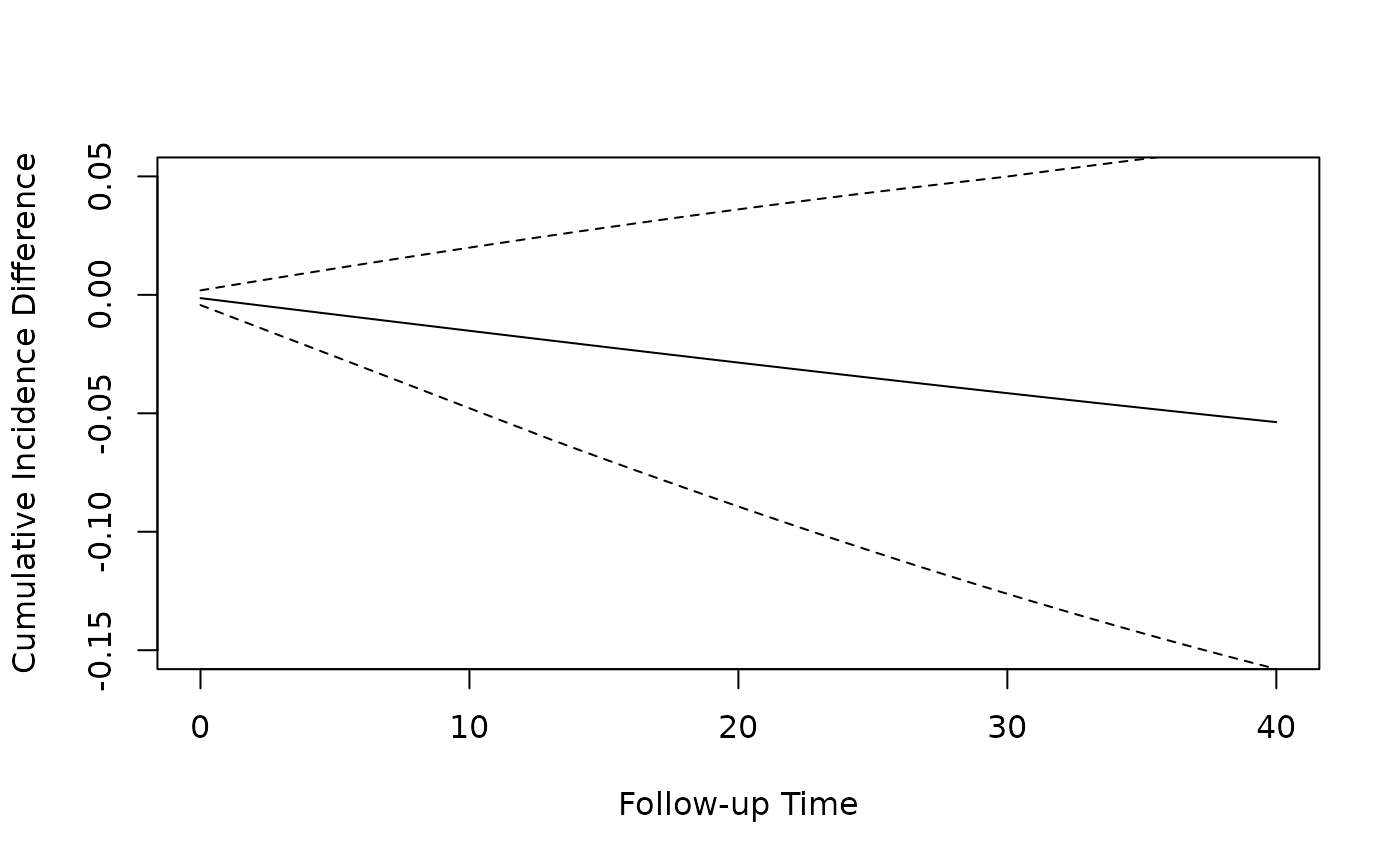
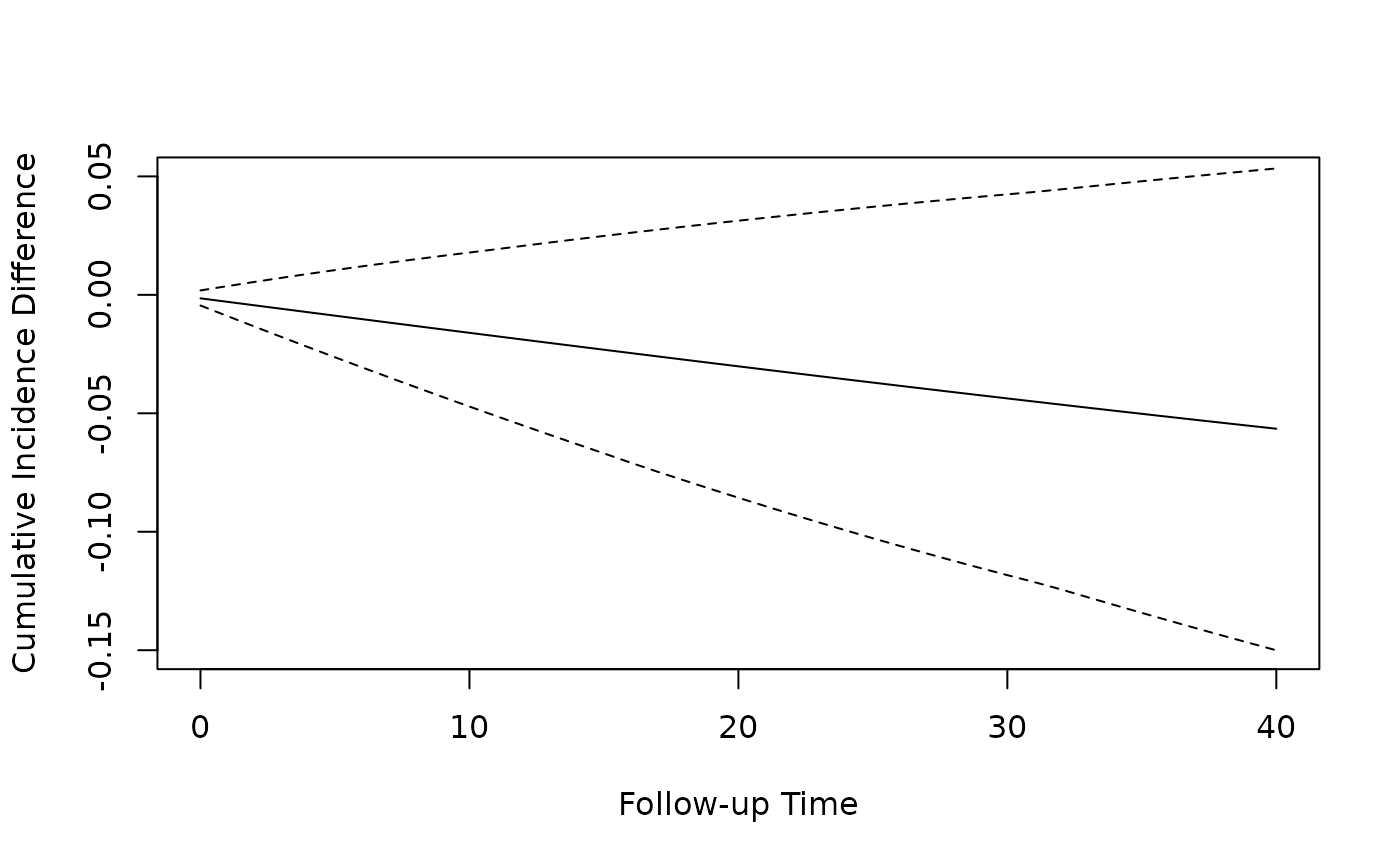
Deploying to gh-pages from @ Causal-LDA/TrialEmulation@989f064dfcb68f37ebdf280b2c37f8ee845aae0d 🚀

diff --git a/articles/Getting-Started.html b/articles/Getting-Started.html
@@ -33,7 +33,7 @@
       </button>
       <span class="navbar-brand">
         <a class="navbar-link" href="../index.html">TrialEmulation</a>
-        <span class="version label label-default" data-toggle="tooltip" data-placement="bottom" title="">0.0.3.7</span>
+        <span class="version label label-default" data-toggle="tooltip" data-placement="bottom" title="">0.0.3.8</span>
       </span>
     </div>
 
@@ -398,13 +398,13 @@ data.</p>
 <span><span class="co">#&gt; Expanded Trial Emulation data</span></span>
 <span><span class="co">#&gt; </span></span>
 <span><span class="co">#&gt; Expanded data saved in 396 csv files:</span></span>
-<span><span class="co">#&gt;   1:   /tmp/RtmprqDfSJ/trial_emu/trial_1.csv</span></span>
-<span><span class="co">#&gt;   2:   /tmp/RtmprqDfSJ/trial_emu/trial_2.csv</span></span>
-<span><span class="co">#&gt;   3:   /tmp/RtmprqDfSJ/trial_emu/trial_3.csv</span></span>
+<span><span class="co">#&gt;   1:   /tmp/Rtmp1nTbMU/trial_emu/trial_1.csv</span></span>
+<span><span class="co">#&gt;   2:   /tmp/Rtmp1nTbMU/trial_emu/trial_2.csv</span></span>
+<span><span class="co">#&gt;   3:   /tmp/Rtmp1nTbMU/trial_emu/trial_3.csv</span></span>
 <span><span class="co">#&gt;  ---                                        </span></span>
-<span><span class="co">#&gt; 394: /tmp/RtmprqDfSJ/trial_emu/trial_394.csv</span></span>
-<span><span class="co">#&gt; 395: /tmp/RtmprqDfSJ/trial_emu/trial_395.csv</span></span>
-<span><span class="co">#&gt; 396: /tmp/RtmprqDfSJ/trial_emu/trial_396.csv</span></span>
+<span><span class="co">#&gt; 394: /tmp/Rtmp1nTbMU/trial_emu/trial_394.csv</span></span>
+<span><span class="co">#&gt; 395: /tmp/Rtmp1nTbMU/trial_emu/trial_395.csv</span></span>
+<span><span class="co">#&gt; 396: /tmp/Rtmp1nTbMU/trial_emu/trial_396.csv</span></span>
 <span><span class="co">#&gt; </span></span>
 <span><span class="co">#&gt; </span></span>
 <span><span class="co">#&gt; Number of observations in expanded data: 963883 </span></span>
@@ -464,7 +464,7 @@ individually</p>
 <span><span class="co">#&gt;  null.deviance df.null logLik  AIC  BIC deviance df.residual  nobs</span></span>
 <span><span class="co">#&gt;           4330   21263  -2165 4335 4359     4329       21261 21264</span></span>
 <span><span class="co">#&gt; </span></span>
-<span><span class="co">#&gt; Object saved at "/tmp/RtmprqDfSJ/trial_emu/weight_model_switch_n0.rds"</span></span></code></pre></div>
+<span><span class="co">#&gt; Object saved at "/tmp/Rtmp1nTbMU/trial_emu/weight_model_switch_n0.rds"</span></span></code></pre></div>
 <p>If <code>save_weight_models = TRUE,</code> the full model objects are
 saved in <code>working_dir</code>, so you can inspect the data used in
 those models and further investigate how well those models fit.</p>
@@ -501,12 +501,12 @@ those models and further investigate how well those models fit.</p>
 <p>We also see the expanded trial files:</p>
 <div class="sourceCode" id="cb12"><pre class="downlit sourceCode r">
 <code class="sourceCode R"><span><span class="fu"><a href="https://rdrr.io/r/utils/head.html" class="external-link">head</a></span><span class="op">(</span><span class="va">prep_data</span><span class="op">$</span><span class="va">data</span><span class="op">)</span></span>
-<span><span class="co">#&gt; [1] "/tmp/RtmprqDfSJ/trial_emu/trial_1.csv"</span></span>
-<span><span class="co">#&gt; [2] "/tmp/RtmprqDfSJ/trial_emu/trial_2.csv"</span></span>
-<span><span class="co">#&gt; [3] "/tmp/RtmprqDfSJ/trial_emu/trial_3.csv"</span></span>
-<span><span class="co">#&gt; [4] "/tmp/RtmprqDfSJ/trial_emu/trial_4.csv"</span></span>
-<span><span class="co">#&gt; [5] "/tmp/RtmprqDfSJ/trial_emu/trial_5.csv"</span></span>
-<span><span class="co">#&gt; [6] "/tmp/RtmprqDfSJ/trial_emu/trial_6.csv"</span></span></code></pre></div>
+<span><span class="co">#&gt; [1] "/tmp/Rtmp1nTbMU/trial_emu/trial_1.csv"</span></span>
+<span><span class="co">#&gt; [2] "/tmp/Rtmp1nTbMU/trial_emu/trial_2.csv"</span></span>
+<span><span class="co">#&gt; [3] "/tmp/Rtmp1nTbMU/trial_emu/trial_3.csv"</span></span>
+<span><span class="co">#&gt; [4] "/tmp/Rtmp1nTbMU/trial_emu/trial_4.csv"</span></span>
+<span><span class="co">#&gt; [5] "/tmp/Rtmp1nTbMU/trial_emu/trial_5.csv"</span></span>
+<span><span class="co">#&gt; [6] "/tmp/Rtmp1nTbMU/trial_emu/trial_6.csv"</span></span></code></pre></div>
 <p>Each of these csv files contains the data for the trial starting at
 period <code>_i</code>. To create a manageable dataset for the final
 analysis we can sample from these trials.</p>
@@ -515,18 +515,18 @@ time in each trial. All observations with events are included.</p>
 <div class="sourceCode" id="cb13"><pre class="downlit sourceCode r">
 <code class="sourceCode R"><span><span class="va">sampled_data</span> <span class="op">&lt;-</span> <span class="fu"><a href="../reference/case_control_sampling_trials.html">case_control_sampling_trials</a></span><span class="op">(</span><span class="va">prep_data</span>, p_control <span class="op">=</span> <span class="fl">0.1</span><span class="op">)</span></span>
 <span><span class="fu"><a href="https://rdrr.io/r/utils/str.html" class="external-link">str</a></span><span class="op">(</span><span class="va">sampled_data</span><span class="op">)</span></span>
-<span><span class="co">#&gt; Classes 'data.table' and 'data.frame':   100172 obs. of  13 variables:</span></span>
-<span><span class="co">#&gt;  $ id                : int  165 165 476 475 165 176 165 140 165 165 ...</span></span>
+<span><span class="co">#&gt; Classes 'data.table' and 'data.frame':   99981 obs. of  13 variables:</span></span>
+<span><span class="co">#&gt;  $ id                : int  484 54 476 484 358 165 358 31 484 423 ...</span></span>
 <span><span class="co">#&gt;  $ trial_period      : int  1 1 1 1 1 1 1 1 1 1 ...</span></span>
-<span><span class="co">#&gt;  $ followup_time     : int  1 4 4 6 10 11 12 17 18 20 ...</span></span>
+<span><span class="co">#&gt;  $ followup_time     : int  0 0 1 3 5 6 7 8 9 12 ...</span></span>
 <span><span class="co">#&gt;  $ outcome           : num  0 0 0 0 0 0 0 0 0 0 ...</span></span>
-<span><span class="co">#&gt;  $ weight            : num  1 0.998 0.998 0.997 0.995 ...</span></span>
+<span><span class="co">#&gt;  $ weight            : num  1 1 1 0.999 0.998 ...</span></span>
 <span><span class="co">#&gt;  $ treatment         : int  0 0 0 0 0 0 0 0 0 0 ...</span></span>
 <span><span class="co">#&gt;  $ catvarA           : Factor w/ 5 levels "0","1","2","3",..: 5 5 5 5 5 5 5 5 5 5 ...</span></span>
 <span><span class="co">#&gt;  $ catvarB           : Factor w/ 5 levels "0","1","2","3",..: 5 5 5 5 5 5 5 5 5 5 ...</span></span>
 <span><span class="co">#&gt;  $ nvarA             : int  0 0 0 0 0 0 0 0 0 0 ...</span></span>
-<span><span class="co">#&gt;  $ nvarB             : int  0 0 0 0 0 0 0 0 0 0 ...</span></span>
-<span><span class="co">#&gt;  $ nvarC             : int  70 70 49 69 70 45 70 46 70 70 ...</span></span>
+<span><span class="co">#&gt;  $ nvarB             : int  1 0 0 1 0 0 0 0 1 0 ...</span></span>
+<span><span class="co">#&gt;  $ nvarC             : int  55 49 49 55 47 70 47 40 55 56 ...</span></span>
 <span><span class="co">#&gt;  $ assigned_treatment: int  0 0 0 0 0 0 0 0 0 0 ...</span></span>
 <span><span class="co">#&gt;  $ sample_weight     : num  10 10 10 10 10 10 10 10 10 10 ...</span></span>
 <span><span class="co">#&gt;  - attr(*, ".internal.selfref")=&lt;externalptr&gt;</span></span></code></pre></div>
@@ -564,54 +564,54 @@ estimates.</p>
 <span><span class="co">#&gt; </span></span>
 <span><span class="co">#&gt; Coefficients:</span></span>
 <span><span class="co">#&gt;                     Estimate Std. Error z value Pr(&gt;|z|)    </span></span>
-<span><span class="co">#&gt; (Intercept)        -2.40e+00   2.26e-01  -10.64  &lt; 2e-16 ***</span></span>
-<span><span class="co">#&gt; assigned_treatment -4.30e-01   5.36e-02   -8.02  1.0e-15 ***</span></span>
-<span><span class="co">#&gt; trial_period       -2.07e-03   8.50e-04   -2.43   0.0150 *  </span></span>
-<span><span class="co">#&gt; I(trial_period^2)   1.06e-05   1.92e-06    5.49  3.9e-08 ***</span></span>
-<span><span class="co">#&gt; followup_time       6.60e-03   1.21e-03    5.47  4.5e-08 ***</span></span>
-<span><span class="co">#&gt; I(followup_time^2) -4.21e-05   8.89e-06   -4.74  2.2e-06 ***</span></span>
-<span><span class="co">#&gt; catvarA1            3.28e-01   4.04e-02    8.13  4.2e-16 ***</span></span>
-<span><span class="co">#&gt; catvarA2            4.36e-01   5.37e-02    8.11  4.9e-16 ***</span></span>
-<span><span class="co">#&gt; catvarA3           -1.03e+01   5.10e+01   -0.20   0.8404    </span></span>
-<span><span class="co">#&gt; catvarA7            3.42e-01   6.41e-02    5.33  1.0e-07 ***</span></span>
-<span><span class="co">#&gt; catvarB1           -4.39e-01   1.85e-01   -2.37   0.0176 *  </span></span>
-<span><span class="co">#&gt; catvarB2           -1.77e-01   1.88e-01   -0.94   0.3468    </span></span>
-<span><span class="co">#&gt; catvarB3           -2.45e+00   3.66e-01   -6.68  2.4e-11 ***</span></span>
-<span><span class="co">#&gt; catvarB7           -9.03e-01   1.88e-01   -4.80  1.6e-06 ***</span></span>
-<span><span class="co">#&gt; nvarA              -2.51e-02   8.68e-03   -2.89   0.0038 ** </span></span>
-<span><span class="co">#&gt; nvarB               3.17e-03   3.85e-04    8.24  &lt; 2e-16 ***</span></span>
-<span><span class="co">#&gt; nvarC              -5.04e-02   1.23e-03  -41.06  &lt; 2e-16 ***</span></span>
+<span><span class="co">#&gt; (Intercept)        -2.31e+00   2.26e-01  -10.20  &lt; 2e-16 ***</span></span>
+<span><span class="co">#&gt; assigned_treatment -4.51e-01   5.38e-02   -8.38  &lt; 2e-16 ***</span></span>
+<span><span class="co">#&gt; trial_period       -2.23e-03   8.49e-04   -2.63   0.0086 ** </span></span>
+<span><span class="co">#&gt; I(trial_period^2)   1.10e-05   1.92e-06    5.74  9.5e-09 ***</span></span>
+<span><span class="co">#&gt; followup_time       6.48e-03   1.22e-03    5.30  1.1e-07 ***</span></span>
+<span><span class="co">#&gt; I(followup_time^2) -4.54e-05   9.13e-06   -4.97  6.7e-07 ***</span></span>
+<span><span class="co">#&gt; catvarA1            3.39e-01   4.04e-02    8.40  &lt; 2e-16 ***</span></span>
+<span><span class="co">#&gt; catvarA2            4.53e-01   5.37e-02    8.44  &lt; 2e-16 ***</span></span>
+<span><span class="co">#&gt; catvarA3           -1.03e+01   5.70e+01   -0.18   0.8569    </span></span>
+<span><span class="co">#&gt; catvarA7            3.51e-01   6.41e-02    5.47  4.4e-08 ***</span></span>
+<span><span class="co">#&gt; catvarB1           -4.85e-01   1.85e-01   -2.62   0.0089 ** </span></span>
+<span><span class="co">#&gt; catvarB2           -2.26e-01   1.89e-01   -1.19   0.2323    </span></span>
+<span><span class="co">#&gt; catvarB3           -2.51e+00   3.66e-01   -6.84  7.7e-12 ***</span></span>
+<span><span class="co">#&gt; catvarB7           -9.63e-01   1.88e-01   -5.12  3.1e-07 ***</span></span>
+<span><span class="co">#&gt; nvarA              -2.64e-02   8.75e-03   -3.02   0.0026 ** </span></span>
+<span><span class="co">#&gt; nvarB               3.43e-03   3.92e-04    8.76  &lt; 2e-16 ***</span></span>
+<span><span class="co">#&gt; nvarC              -5.09e-02   1.23e-03  -41.35  &lt; 2e-16 ***</span></span>
 <span><span class="co">#&gt; ---</span></span>
 <span><span class="co">#&gt; Signif. codes:  0 '***' 0.001 '**' 0.01 '*' 0.05 '.' 0.1 ' ' 1</span></span>
 <span><span class="co">#&gt; </span></span>
 <span><span class="co">#&gt; (Dispersion parameter for binomial family taken to be 1)</span></span>
 <span><span class="co">#&gt; </span></span>
-<span><span class="co">#&gt;     Null deviance: 53220  on 100171  degrees of freedom</span></span>
-<span><span class="co">#&gt; Residual deviance: 50723  on 100155  degrees of freedom</span></span>
-<span><span class="co">#&gt; AIC: 50673</span></span>
+<span><span class="co">#&gt;     Null deviance: 53101  on 99980  degrees of freedom</span></span>
+<span><span class="co">#&gt; Residual deviance: 50536  on 99964  degrees of freedom</span></span>
+<span><span class="co">#&gt; AIC: 50493</span></span>
 <span><span class="co">#&gt; </span></span>
 <span><span class="co">#&gt; Number of Fisher Scoring iterations: 13</span></span>
 <span><span class="co">#&gt; ------------------------------------------------------------</span></span>
 <span><span class="co">#&gt; Calculating robust variance</span></span>
 <span><span class="co">#&gt; Summary with robust standard error:</span></span>
 <span><span class="co">#&gt;                 names  estimate robust_se      2.5%     97.5%       z  p_value</span></span>
-<span><span class="co">#&gt; 1         (Intercept) -2.40e+00  1.03e+00 -4.43e+00 -3.77e-01  -2.325 2.01e-02</span></span>
-<span><span class="co">#&gt; 2  assigned_treatment -4.30e-01  4.21e-01 -1.26e+00  3.95e-01  -1.021 3.07e-01</span></span>
-<span><span class="co">#&gt; 3        trial_period -2.07e-03  5.05e-03 -1.20e-02  7.83e-03  -0.409 6.82e-01</span></span>
-<span><span class="co">#&gt; 4   I(trial_period^2)  1.06e-05  1.12e-05 -1.14e-05  3.25e-05   0.944 3.45e-01</span></span>
-<span><span class="co">#&gt; 5       followup_time  6.60e-03  5.92e-03 -5.01e-03  1.82e-02   1.114 2.65e-01</span></span>
-<span><span class="co">#&gt; 6  I(followup_time^2) -4.21e-05  5.32e-05 -1.46e-04  6.21e-05  -0.792 4.28e-01</span></span>
-<span><span class="co">#&gt; 7            catvarA1  3.28e-01  2.63e-01 -1.87e-01  8.44e-01   1.248 2.12e-01</span></span>
-<span><span class="co">#&gt; 8            catvarA2  4.36e-01  3.65e-01 -2.80e-01  1.15e+00   1.193 2.33e-01</span></span>
-<span><span class="co">#&gt; 9            catvarA3 -1.03e+01  8.56e-01 -1.20e+01 -8.60e+00 -12.003 0.00e+00</span></span>
-<span><span class="co">#&gt; 10           catvarA7  3.42e-01  3.49e-01 -3.42e-01  1.03e+00   0.979 3.28e-01</span></span>
-<span><span class="co">#&gt; 11           catvarB1 -4.39e-01  6.32e-01 -1.68e+00  8.00e-01  -0.694 4.88e-01</span></span>
-<span><span class="co">#&gt; 12           catvarB2 -1.77e-01  6.70e-01 -1.49e+00  1.14e+00  -0.265 7.91e-01</span></span>
-<span><span class="co">#&gt; 13           catvarB3 -2.45e+00  1.10e+00 -4.61e+00 -2.84e-01  -2.218 2.66e-02</span></span>
-<span><span class="co">#&gt; 14           catvarB7 -9.03e-01  6.51e-01 -2.18e+00  3.72e-01  -1.388 1.65e-01</span></span>
-<span><span class="co">#&gt; 15              nvarA -2.51e-02  5.41e-02 -1.31e-01  8.09e-02  -0.464 6.43e-01</span></span>
-<span><span class="co">#&gt; 16              nvarB  3.17e-03  2.43e-03 -1.59e-03  7.93e-03   1.305 1.92e-01</span></span>
-<span><span class="co">#&gt; 17              nvarC -5.04e-02  9.12e-03 -6.83e-02 -3.26e-02  -5.528 3.24e-08</span></span>
+<span><span class="co">#&gt; 1         (Intercept) -2.31e+00  1.03e+00 -4.33e+00 -2.86e-01  -2.237 2.53e-02</span></span>
+<span><span class="co">#&gt; 2  assigned_treatment -4.51e-01  4.21e-01 -1.28e+00  3.75e-01  -1.069 2.85e-01</span></span>
+<span><span class="co">#&gt; 3        trial_period -2.23e-03  5.00e-03 -1.20e-02  7.58e-03  -0.446 6.56e-01</span></span>
+<span><span class="co">#&gt; 4   I(trial_period^2)  1.10e-05  1.11e-05 -1.07e-05  3.27e-05   0.994 3.20e-01</span></span>
+<span><span class="co">#&gt; 5       followup_time  6.48e-03  5.86e-03 -5.01e-03  1.80e-02   1.106 2.69e-01</span></span>
+<span><span class="co">#&gt; 6  I(followup_time^2) -4.54e-05  5.18e-05 -1.47e-04  5.62e-05  -0.876 3.81e-01</span></span>
+<span><span class="co">#&gt; 7            catvarA1  3.39e-01  2.61e-01 -1.73e-01  8.51e-01   1.299 1.94e-01</span></span>
+<span><span class="co">#&gt; 8            catvarA2  4.53e-01  3.65e-01 -2.63e-01  1.17e+00   1.241 2.15e-01</span></span>
+<span><span class="co">#&gt; 9            catvarA3 -1.03e+01  8.44e-01 -1.19e+01 -8.63e+00 -12.179 0.00e+00</span></span>
+<span><span class="co">#&gt; 10           catvarA7  3.51e-01  3.51e-01 -3.37e-01  1.04e+00   0.999 3.18e-01</span></span>
+<span><span class="co">#&gt; 11           catvarB1 -4.85e-01  6.32e-01 -1.72e+00  7.54e-01  -0.767 4.43e-01</span></span>
+<span><span class="co">#&gt; 12           catvarB2 -2.26e-01  6.71e-01 -1.54e+00  1.09e+00  -0.337 7.36e-01</span></span>
+<span><span class="co">#&gt; 13           catvarB3 -2.51e+00  1.10e+00 -4.66e+00 -3.58e-01  -2.286 2.22e-02</span></span>
+<span><span class="co">#&gt; 14           catvarB7 -9.63e-01  6.48e-01 -2.23e+00  3.06e-01  -1.487 1.37e-01</span></span>
+<span><span class="co">#&gt; 15              nvarA -2.64e-02  5.46e-02 -1.33e-01  8.06e-02  -0.484 6.29e-01</span></span>
+<span><span class="co">#&gt; 16              nvarB  3.43e-03  2.45e-03 -1.38e-03  8.24e-03   1.399 1.62e-01</span></span>
+<span><span class="co">#&gt; 17              nvarC -5.09e-02  9.16e-03 -6.89e-02 -3.30e-02  -5.560 2.70e-08</span></span>
 <span><span class="co">#&gt; ------------------------------------------------------------</span></span></code></pre></div>
 <p>The result is the same type as the previous result from the simple
 <code>initiators</code> function, containing the <code>glm</code> object
@@ -627,23 +627,23 @@ and the sandwich results.</p>
 <span><span class="co">#&gt; </span></span>
 <span><span class="co">#&gt; Coefficent summary (robust):</span></span>
 <span><span class="co">#&gt;               names  estimate robust_se      2.5%     97.5%       z p_value</span></span>
-<span><span class="co">#&gt;         (Intercept) -2.40e+00  1.03e+00 -4.43e+00 -3.77e-01  -2.325    0.02</span></span>
-<span><span class="co">#&gt;  assigned_treatment -4.30e-01  4.21e-01 -1.26e+00  3.95e-01  -1.021    0.31</span></span>
-<span><span class="co">#&gt;        trial_period -2.07e-03  5.05e-03 -1.20e-02  7.83e-03  -0.409    0.68</span></span>
-<span><span class="co">#&gt;   I(trial_period^2)  1.06e-05  1.12e-05 -1.14e-05  3.25e-05   0.944    0.35</span></span>
-<span><span class="co">#&gt;       followup_time  6.60e-03  5.92e-03 -5.01e-03  1.82e-02   1.114    0.27</span></span>
-<span><span class="co">#&gt;  I(followup_time^2) -4.21e-05  5.32e-05 -1.46e-04  6.21e-05  -0.792    0.43</span></span>
-<span><span class="co">#&gt;            catvarA1  3.28e-01  2.63e-01 -1.87e-01  8.44e-01   1.248    0.21</span></span>
-<span><span class="co">#&gt;            catvarA2  4.36e-01  3.65e-01 -2.80e-01  1.15e+00   1.193    0.23</span></span>
-<span><span class="co">#&gt;            catvarA3 -1.03e+01  8.56e-01 -1.20e+01 -8.60e+00 -12.003  &lt;2e-16</span></span>
-<span><span class="co">#&gt;            catvarA7  3.42e-01  3.49e-01 -3.42e-01  1.03e+00   0.979    0.33</span></span>
-<span><span class="co">#&gt;            catvarB1 -4.39e-01  6.32e-01 -1.68e+00  8.00e-01  -0.694    0.49</span></span>
-<span><span class="co">#&gt;            catvarB2 -1.77e-01  6.70e-01 -1.49e+00  1.14e+00  -0.265    0.79</span></span>
-<span><span class="co">#&gt;            catvarB3 -2.45e+00  1.10e+00 -4.61e+00 -2.84e-01  -2.218    0.03</span></span>
-<span><span class="co">#&gt;            catvarB7 -9.03e-01  6.51e-01 -2.18e+00  3.72e-01  -1.388    0.17</span></span>
-<span><span class="co">#&gt;               nvarA -2.51e-02  5.41e-02 -1.31e-01  8.09e-02  -0.464    0.64</span></span>
-<span><span class="co">#&gt;               nvarB  3.17e-03  2.43e-03 -1.59e-03  7.93e-03   1.305    0.19</span></span>
-<span><span class="co">#&gt;               nvarC -5.04e-02  9.12e-03 -6.83e-02 -3.26e-02  -5.528   3e-08</span></span>
+<span><span class="co">#&gt;         (Intercept) -2.31e+00  1.03e+00 -4.33e+00 -2.86e-01  -2.237    0.03</span></span>
+<span><span class="co">#&gt;  assigned_treatment -4.51e-01  4.21e-01 -1.28e+00  3.75e-01  -1.069    0.28</span></span>
+<span><span class="co">#&gt;        trial_period -2.23e-03  5.00e-03 -1.20e-02  7.58e-03  -0.446    0.66</span></span>
+<span><span class="co">#&gt;   I(trial_period^2)  1.10e-05  1.11e-05 -1.07e-05  3.27e-05   0.994    0.32</span></span>
+<span><span class="co">#&gt;       followup_time  6.48e-03  5.86e-03 -5.01e-03  1.80e-02   1.106    0.27</span></span>
+<span><span class="co">#&gt;  I(followup_time^2) -4.54e-05  5.18e-05 -1.47e-04  5.62e-05  -0.876    0.38</span></span>
+<span><span class="co">#&gt;            catvarA1  3.39e-01  2.61e-01 -1.73e-01  8.51e-01   1.299    0.19</span></span>
+<span><span class="co">#&gt;            catvarA2  4.53e-01  3.65e-01 -2.63e-01  1.17e+00   1.241    0.21</span></span>
+<span><span class="co">#&gt;            catvarA3 -1.03e+01  8.44e-01 -1.19e+01 -8.63e+00 -12.179  &lt;2e-16</span></span>
+<span><span class="co">#&gt;            catvarA7  3.51e-01  3.51e-01 -3.37e-01  1.04e+00   0.999    0.32</span></span>
+<span><span class="co">#&gt;            catvarB1 -4.85e-01  6.32e-01 -1.72e+00  7.54e-01  -0.767    0.44</span></span>
+<span><span class="co">#&gt;            catvarB2 -2.26e-01  6.71e-01 -1.54e+00  1.09e+00  -0.337    0.74</span></span>
+<span><span class="co">#&gt;            catvarB3 -2.51e+00  1.10e+00 -4.66e+00 -3.58e-01  -2.286    0.02</span></span>
+<span><span class="co">#&gt;            catvarB7 -9.63e-01  6.48e-01 -2.23e+00  3.06e-01  -1.487    0.14</span></span>
+<span><span class="co">#&gt;               nvarA -2.64e-02  5.46e-02 -1.33e-01  8.06e-02  -0.484    0.63</span></span>
+<span><span class="co">#&gt;               nvarB  3.43e-03  2.45e-03 -1.38e-03  8.24e-03   1.399    0.16</span></span>
+<span><span class="co">#&gt;               nvarC -5.09e-02  9.16e-03 -6.89e-02 -3.30e-02  -5.560   3e-08</span></span>
 <span><span class="co">#&gt; </span></span>
 <span><span class="co">#&gt; model_result$model contains the fitted glm model object.</span></span>
 <span><span class="co">#&gt; model_result$robust$matrix contains the full robust covariance matrix.</span></span></code></pre></div>
@@ -658,31 +658,31 @@ and the sandwich results.</p>
 <span><span class="co">#&gt; </span></span>
 <span><span class="co">#&gt; Coefficients:</span></span>
 <span><span class="co">#&gt;                     Estimate Std. Error z value Pr(&gt;|z|)    </span></span>
-<span><span class="co">#&gt; (Intercept)        -2.40e+00   2.26e-01  -10.64  &lt; 2e-16 ***</span></span>
-<span><span class="co">#&gt; assigned_treatment -4.30e-01   5.36e-02   -8.02  1.0e-15 ***</span></span>
-<span><span class="co">#&gt; trial_period       -2.07e-03   8.50e-04   -2.43   0.0150 *  </span></span>
-<span><span class="co">#&gt; I(trial_period^2)   1.06e-05   1.92e-06    5.49  3.9e-08 ***</span></span>
-<span><span class="co">#&gt; followup_time       6.60e-03   1.21e-03    5.47  4.5e-08 ***</span></span>
-<span><span class="co">#&gt; I(followup_time^2) -4.21e-05   8.89e-06   -4.74  2.2e-06 ***</span></span>
-<span><span class="co">#&gt; catvarA1            3.28e-01   4.04e-02    8.13  4.2e-16 ***</span></span>
-<span><span class="co">#&gt; catvarA2            4.36e-01   5.37e-02    8.11  4.9e-16 ***</span></span>
-<span><span class="co">#&gt; catvarA3           -1.03e+01   5.10e+01   -0.20   0.8404    </span></span>
-<span><span class="co">#&gt; catvarA7            3.42e-01   6.41e-02    5.33  1.0e-07 ***</span></span>
-<span><span class="co">#&gt; catvarB1           -4.39e-01   1.85e-01   -2.37   0.0176 *  </span></span>
-<span><span class="co">#&gt; catvarB2           -1.77e-01   1.88e-01   -0.94   0.3468    </span></span>
-<span><span class="co">#&gt; catvarB3           -2.45e+00   3.66e-01   -6.68  2.4e-11 ***</span></span>
-<span><span class="co">#&gt; catvarB7           -9.03e-01   1.88e-01   -4.80  1.6e-06 ***</span></span>
-<span><span class="co">#&gt; nvarA              -2.51e-02   8.68e-03   -2.89   0.0038 ** </span></span>
-<span><span class="co">#&gt; nvarB               3.17e-03   3.85e-04    8.24  &lt; 2e-16 ***</span></span>
-<span><span class="co">#&gt; nvarC              -5.04e-02   1.23e-03  -41.06  &lt; 2e-16 ***</span></span>
+<span><span class="co">#&gt; (Intercept)        -2.31e+00   2.26e-01  -10.20  &lt; 2e-16 ***</span></span>
+<span><span class="co">#&gt; assigned_treatment -4.51e-01   5.38e-02   -8.38  &lt; 2e-16 ***</span></span>
+<span><span class="co">#&gt; trial_period       -2.23e-03   8.49e-04   -2.63   0.0086 ** </span></span>
+<span><span class="co">#&gt; I(trial_period^2)   1.10e-05   1.92e-06    5.74  9.5e-09 ***</span></span>
+<span><span class="co">#&gt; followup_time       6.48e-03   1.22e-03    5.30  1.1e-07 ***</span></span>
+<span><span class="co">#&gt; I(followup_time^2) -4.54e-05   9.13e-06   -4.97  6.7e-07 ***</span></span>
+<span><span class="co">#&gt; catvarA1            3.39e-01   4.04e-02    8.40  &lt; 2e-16 ***</span></span>
+<span><span class="co">#&gt; catvarA2            4.53e-01   5.37e-02    8.44  &lt; 2e-16 ***</span></span>
+<span><span class="co">#&gt; catvarA3           -1.03e+01   5.70e+01   -0.18   0.8569    </span></span>
+<span><span class="co">#&gt; catvarA7            3.51e-01   6.41e-02    5.47  4.4e-08 ***</span></span>
+<span><span class="co">#&gt; catvarB1           -4.85e-01   1.85e-01   -2.62   0.0089 ** </span></span>
+<span><span class="co">#&gt; catvarB2           -2.26e-01   1.89e-01   -1.19   0.2323    </span></span>
+<span><span class="co">#&gt; catvarB3           -2.51e+00   3.66e-01   -6.84  7.7e-12 ***</span></span>
+<span><span class="co">#&gt; catvarB7           -9.63e-01   1.88e-01   -5.12  3.1e-07 ***</span></span>
+<span><span class="co">#&gt; nvarA              -2.64e-02   8.75e-03   -3.02   0.0026 ** </span></span>
+<span><span class="co">#&gt; nvarB               3.43e-03   3.92e-04    8.76  &lt; 2e-16 ***</span></span>
+<span><span class="co">#&gt; nvarC              -5.09e-02   1.23e-03  -41.35  &lt; 2e-16 ***</span></span>
 <span><span class="co">#&gt; ---</span></span>
 <span><span class="co">#&gt; Signif. codes:  0 '***' 0.001 '**' 0.01 '*' 0.05 '.' 0.1 ' ' 1</span></span>
 <span><span class="co">#&gt; </span></span>
 <span><span class="co">#&gt; (Dispersion parameter for binomial family taken to be 1)</span></span>
 <span><span class="co">#&gt; </span></span>
-<span><span class="co">#&gt;     Null deviance: 53220  on 100171  degrees of freedom</span></span>
-<span><span class="co">#&gt; Residual deviance: 50723  on 100155  degrees of freedom</span></span>
-<span><span class="co">#&gt; AIC: 50673</span></span>
+<span><span class="co">#&gt;     Null deviance: 53101  on 99980  degrees of freedom</span></span>
+<span><span class="co">#&gt; Residual deviance: 50536  on 99964  degrees of freedom</span></span>
+<span><span class="co">#&gt; AIC: 50493</span></span>
 <span><span class="co">#&gt; </span></span>
 <span><span class="co">#&gt; Number of Fisher Scoring iterations: 13</span></span></code></pre></div>
 <p>We can also use this object to predict cumulative incidence curves

diff --git a/authors.html b/authors.html
@@ -17,7 +17,7 @@
       </button>
       <span class="navbar-brand">
         <a class="navbar-link" href="index.html">TrialEmulation</a>
-        <span class="version label label-default" data-toggle="tooltip" data-placement="bottom" title="">0.0.3.7</span>
+        <span class="version label label-default" data-toggle="tooltip" data-placement="bottom" title="">0.0.3.8</span>
       </span>
     </div>
 
@@ -89,14 +89,14 @@
 
     <p>Rezvani R, Gravestock I, Su L (2024).
 <em>TrialEmulation: Causal Analysis of Observational Time-to-Event Data</em>.
-R package version 0.0.3.7, 
+R package version 0.0.3.8, 
 https://github.com/Causal-LDA/TrialEmulation, <a href="https://causal-lda.github.io/TrialEmulation/">https://causal-lda.github.io/TrialEmulation/</a>. 
 </p>
     <pre>@Manual{,
   title = {TrialEmulation: Causal Analysis of Observational Time-to-Event Data},
   author = {Roonak Rezvani and Isaac Gravestock and Li Su},
   year = {2024},
-  note = {R package version 0.0.3.7, 
+  note = {R package version 0.0.3.8, 
 https://github.com/Causal-LDA/TrialEmulation},
   url = {https://causal-lda.github.io/TrialEmulation/},
 }</pre>

diff --git a/news/index.html b/news/index.html
@@ -17,7 +17,7 @@
       </button>
       <span class="navbar-brand">
         <a class="navbar-link" href="../index.html">TrialEmulation</a>
-        <span class="version label label-default" data-toggle="tooltip" data-placement="bottom" title="">0.0.3.7</span>
+        <span class="version label label-default" data-toggle="tooltip" data-placement="bottom" title="">0.0.3.8</span>
       </span>
     </div>
 
@@ -58,7 +58,7 @@
     </div>
 
     <div class="section level2">
-<h2 class="page-header" data-toc-text="0.0.3.7" id="trialemulation-0037">TrialEmulation 0.0.3.7<a class="anchor" aria-label="anchor" href="#trialemulation-0037"></a></h2>
+<h2 class="page-header" data-toc-text="0.0.3.8" id="trialemulation-0038">TrialEmulation 0.0.3.8<a class="anchor" aria-label="anchor" href="#trialemulation-0038"></a></h2>
 <ul><li><p>Improve documentation</p></li>
 <li><p>Add <code>estimand_type</code> argument</p></li>
 <li><p>Internal refactoring</p></li>

diff --git a/reference/TrialEmulation-package.html b/reference/TrialEmulation-package.html
@@ -18,7 +18,7 @@ an emulated a randomised trial."><!-- mathjax --><script src="https://cdnjs.clou
       </button>
       <span class="navbar-brand">
         <a class="navbar-link" href="../index.html">TrialEmulation</a>
-        <span class="version label label-default" data-toggle="tooltip" data-placement="bottom" title="">0.0.3.7</span>
+        <span class="version label label-default" data-toggle="tooltip" data-placement="bottom" title="">0.0.3.8</span>
       </span>
     </div>
 

diff --git a/reference/case_control_sampling_trials.html b/reference/case_control_sampling_trials.html
@@ -18,7 +18,7 @@ to be used in trial_msm()."><!-- mathjax --><script src="https://cdnjs.cloudflar
       </button>
       <span class="navbar-brand">
         <a class="navbar-link" href="../index.html">TrialEmulation</a>
-        <span class="version label label-default" data-toggle="tooltip" data-placement="bottom" title="">0.0.3.7</span>
+        <span class="version label label-default" data-toggle="tooltip" data-placement="bottom" title="">0.0.3.8</span>
       </span>
     </div>
 

diff --git a/reference/data_preparation.html b/reference/data_preparation.html
@@ -18,7 +18,7 @@ of target trials and also estimates the inverse probability of treatment and cen
       </button>
       <span class="navbar-brand">
         <a class="navbar-link" href="../index.html">TrialEmulation</a>
-        <span class="version label label-default" data-toggle="tooltip" data-placement="bottom" title="">0.0.3.7</span>
+        <span class="version label label-default" data-toggle="tooltip" data-placement="bottom" title="">0.0.3.8</span>
       </span>
     </div>
 

diff --git a/reference/expand_until_switch.html b/reference/expand_until_switch.html
@@ -18,7 +18,7 @@ and set expand = 0."><!-- mathjax --><script src="https://cdnjs.cloudflare.com/a
       </button>
       <span class="navbar-brand">
         <a class="navbar-link" href="../index.html">TrialEmulation</a>
-        <span class="version label label-default" data-toggle="tooltip" data-placement="bottom" title="">0.0.3.7</span>
+        <span class="version label label-default" data-toggle="tooltip" data-placement="bottom" title="">0.0.3.8</span>
       </span>
     </div>
 

diff --git a/reference/initiators.html b/reference/initiators.html
@@ -18,7 +18,7 @@ functions data_preparation() and trial_msm()."><!-- mathjax --><script src="http
       </button>
       <span class="navbar-brand">
         <a class="navbar-link" href="../index.html">TrialEmulation</a>
-        <span class="version label label-default" data-toggle="tooltip" data-placement="bottom" title="">0.0.3.7</span>
+        <span class="version label label-default" data-toggle="tooltip" data-placement="bottom" title="">0.0.3.8</span>
       </span>
     </div>
 

diff --git a/reference/predict.TE_msm.html b/reference/predict.TE_msm.html
@@ -21,7 +21,7 @@ per-protocol effects, therefore it is only valid when estimand_type = "ITT" or e
       </button>
       <span class="navbar-brand">
         <a class="navbar-link" href="../index.html">TrialEmulation</a>
-        <span class="version label label-default" data-toggle="tooltip" data-placement="bottom" title="">0.0.3.7</span>
+        <span class="version label label-default" data-toggle="tooltip" data-placement="bottom" title="">0.0.3.8</span>
       </span>
     </div>
 

diff --git a/reference/robust_calculation.html b/reference/robust_calculation.html
@@ -18,7 +18,7 @@ variances estimated using sandwich::vcovCL."><!-- mathjax --><script src="https:
       </button>
       <span class="navbar-brand">
         <a class="navbar-link" href="../index.html">TrialEmulation</a>
-        <span class="version label label-default" data-toggle="tooltip" data-placement="bottom" title="">0.0.3.7</span>
+        <span class="version label label-default" data-toggle="tooltip" data-placement="bottom" title="">0.0.3.8</span>
       </span>
     </div>
 

diff --git a/reference/te_data_ex.html b/reference/te_data_ex.html
@@ -18,7 +18,7 @@ It is created with the following code:"><!-- mathjax --><script src="https://cdn
       </button>
       <span class="navbar-brand">
         <a class="navbar-link" href="../index.html">TrialEmulation</a>
-        <span class="version label label-default" data-toggle="tooltip" data-placement="bottom" title="">0.0.3.7</span>
+        <span class="version label label-default" data-toggle="tooltip" data-placement="bottom" title="">0.0.3.8</span>
       </span>
     </div>
 

diff --git a/reference/te_model_ex.html b/reference/te_model_ex.html
@@ -18,7 +18,7 @@ following code:"><!-- mathjax --><script src="https://cdnjs.cloudflare.com/ajax/
       </button>
       <span class="navbar-brand">
         <a class="navbar-link" href="../index.html">TrialEmulation</a>
-        <span class="version label label-default" data-toggle="tooltip" data-placement="bottom" title="">0.0.3.7</span>
+        <span class="version label label-default" data-toggle="tooltip" data-placement="bottom" title="">0.0.3.8</span>
       </span>
     </div>
 
